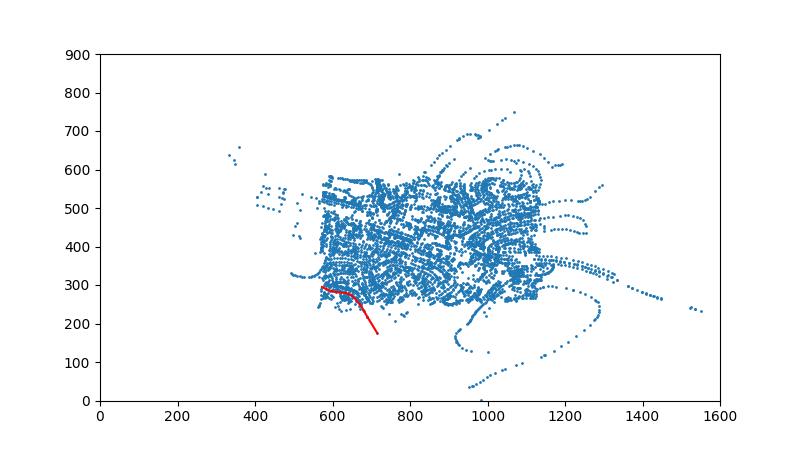
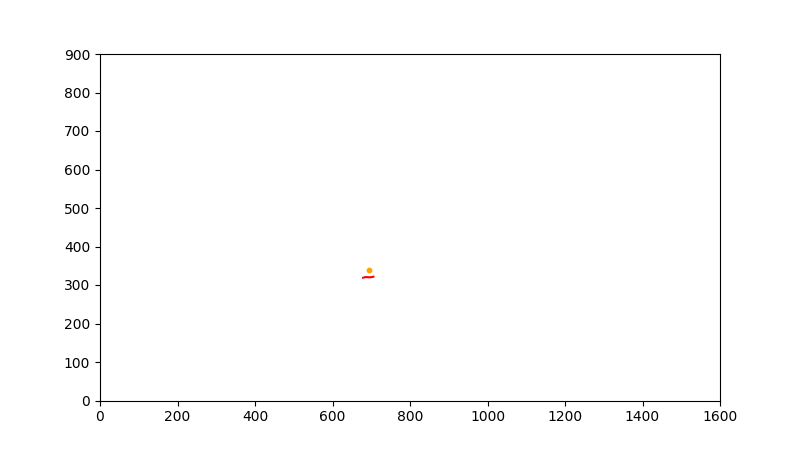
cleaned up structure. attractions associated to way sgements. Ways contains a list of of Way(s)

diff --git a/sim_ui/src/backend/ways.py b/sim_ui/src/backend/ways.py
@@ -1,0 +1,89 @@
+import way_segment as ws
+import json
+
+# contains a list of way_segment
+class Way:
+    def __init__(self, data, noderefs):
+        self.data = data
+        self.noderefs = noderefs
+        self.way_segments = self.noderefs_to_waysegs()  # list of way segments
+        
+    
+    # pass noderefs of a single way and return array of waysegments split at intersections (need to work on this)
+    def noderefs_to_waysegs(self):
+        waysegs = []
+        segment_start_index = 0
+        # need to split at stop lights/ intersections -FINISH
+        for i in range(len(self.noderefs)):
+            if self.noderefs[i] in self.data["nodes"]["attractions"] or i == len(self.noderefs) -1: # attractions, break up the segment, or end of segment
+                #print(f"i = {i}, breaking up segment")
+                noderefs_segment = self.noderefs[segment_start_index:i+1]
+                waysegs.append(ws.WaySegment(noderefs_segment, self.data))
+                segment_start_index = i
+
+        return waysegs
+
+
+
+
+# ways contains a list of ways
+class Ways:
+
+    def __init__(self, data):
+        self.data = data
+        self.ways = {}  # Ways is a dictionary of roads and nonraods where each is a list where each element is a way 
+        self.assemble_ways()
+
+        # add all attractions to appropriate way seg
+        self.add_attractions()
+
+
+    # creates waysegs and adds to list (under appropriate category type)
+    def assemble_ways(self): 
+        for category in ["roads", "nonroads"]:
+            for way_id in self.data["ways"][category]:
+                noderefs = self.data["ways"][category][way_id]["noderefs"]
+                if category in self.ways:
+                    self.ways[category].append(Way(self.data, noderefs))
+                else:
+                    self.ways[category] = [Way(self.data, noderefs)]
+
+
+    # associates each attraction node with its closest way segment (and appropriate connection node)
+    def add_attractions(self):
+        for noderef, attraction in self.data["nodes"]["attractions"].items():
+            min_val = 100000
+            way_segment_index = -1
+            min_t = -1
+            way_index = -1
+            way_seg_index = -1
+
+            # maybe use vectorized operations??
+            for i in range(len(self.ways["roads"])): # loop through each of the roads
+                road = self.ways["roads"][i]
+                for j in range(len(road.way_segments)):
+                    minimum, t = (road.way_segments[j]).min_node_distance(attraction["lon"], attraction["lat"])
+                    if minimum < min_val:
+                        min_val = minimum
+                        min_t = t
+                        way_seg_index = j
+                        way_index = i
+                
+            self.ways["roads"][way_index].way_segments[way_seg_index].add_attraction(noderef, min_t)
+            print("just added a attraction noderef")
+
+
+if __name__=="__main__":
+
+    f = open("test-map.json")
+    
+    # returns JSON object as 
+    # a dictionary
+    data = json.load(f)
+    f.close()
+
+    ways = Ways(data)
+    print(ways.ways)
+
+
+

diff --git a/sim_ui/src/backend/test_plot.py b/sim_ui/src/backend/test_plot.py
@@ -2,6 +2,7 @@ import matplotlib.pyplot as plt
 import numpy as np
 import json
 import sys
+import ways
 
 if __name__ == "__main__":
     fig, ax = plt.subplots()
@@ -17,6 +18,8 @@ if __name__ == "__main__":
     # a dictionary
     data = json.load(f)
 
+    ways = ways.Ways(data)
+
     lats = []
     lons = []
 
@@ -25,18 +28,15 @@ if __name__ == "__main__":
         lons.append(node_vals["lon"])
 
 
-    print(lats)
-    print(lons)
     fig.set_figheight(4.5)
     fig.set_figwidth(8)
     ax.set_ylim(bottom=0, top=900)
     ax.set_xlim(left=0, right=1600)
     ax.scatter(np.array(lons), np.array(lats),s=1)
 
-    road = list(data["ways"]["roads"].values())[2]
-    print(road["name"])
+    road = ways.ways["roads"][4]  # this a particular road
 
-    road_nodes = road["noderefs"]
+
 
 
     lons = [] 
@@ -45,7 +45,15 @@ if __name__ == "__main__":
     attraction_lons = []
     attraction_lats = []
 
-    for ref in road_nodes:
+    for road_seg in road.way_segments:
+        print("road seg = ", road_seg)
+        for attraction in road_seg.attractions:
+            print("appending")
+            attraction_lats.append(attraction["lat"])
+            attraction_lons.append(attraction["lon"])
+
+
+    for ref in road.noderefs:
         node = None
         if ref in data["nodes"]["connections"]:
             node = data["nodes"]["connections"][ref]
@@ -59,7 +67,11 @@ if __name__ == "__main__":
         lats.append(node["lat"])
 
 
+    # color attractions near our road orange
+    ways.ways["roads"]
+
     ax.plot(lons, lats, color="r")
+    print(f"attraction lons len = {len(attraction_lons)}")
     ax.scatter(np.array(attraction_lons), np.array(attraction_lats),s=10, color="orange")
 
     plt.savefig(file_name.replace("json", "png"))
